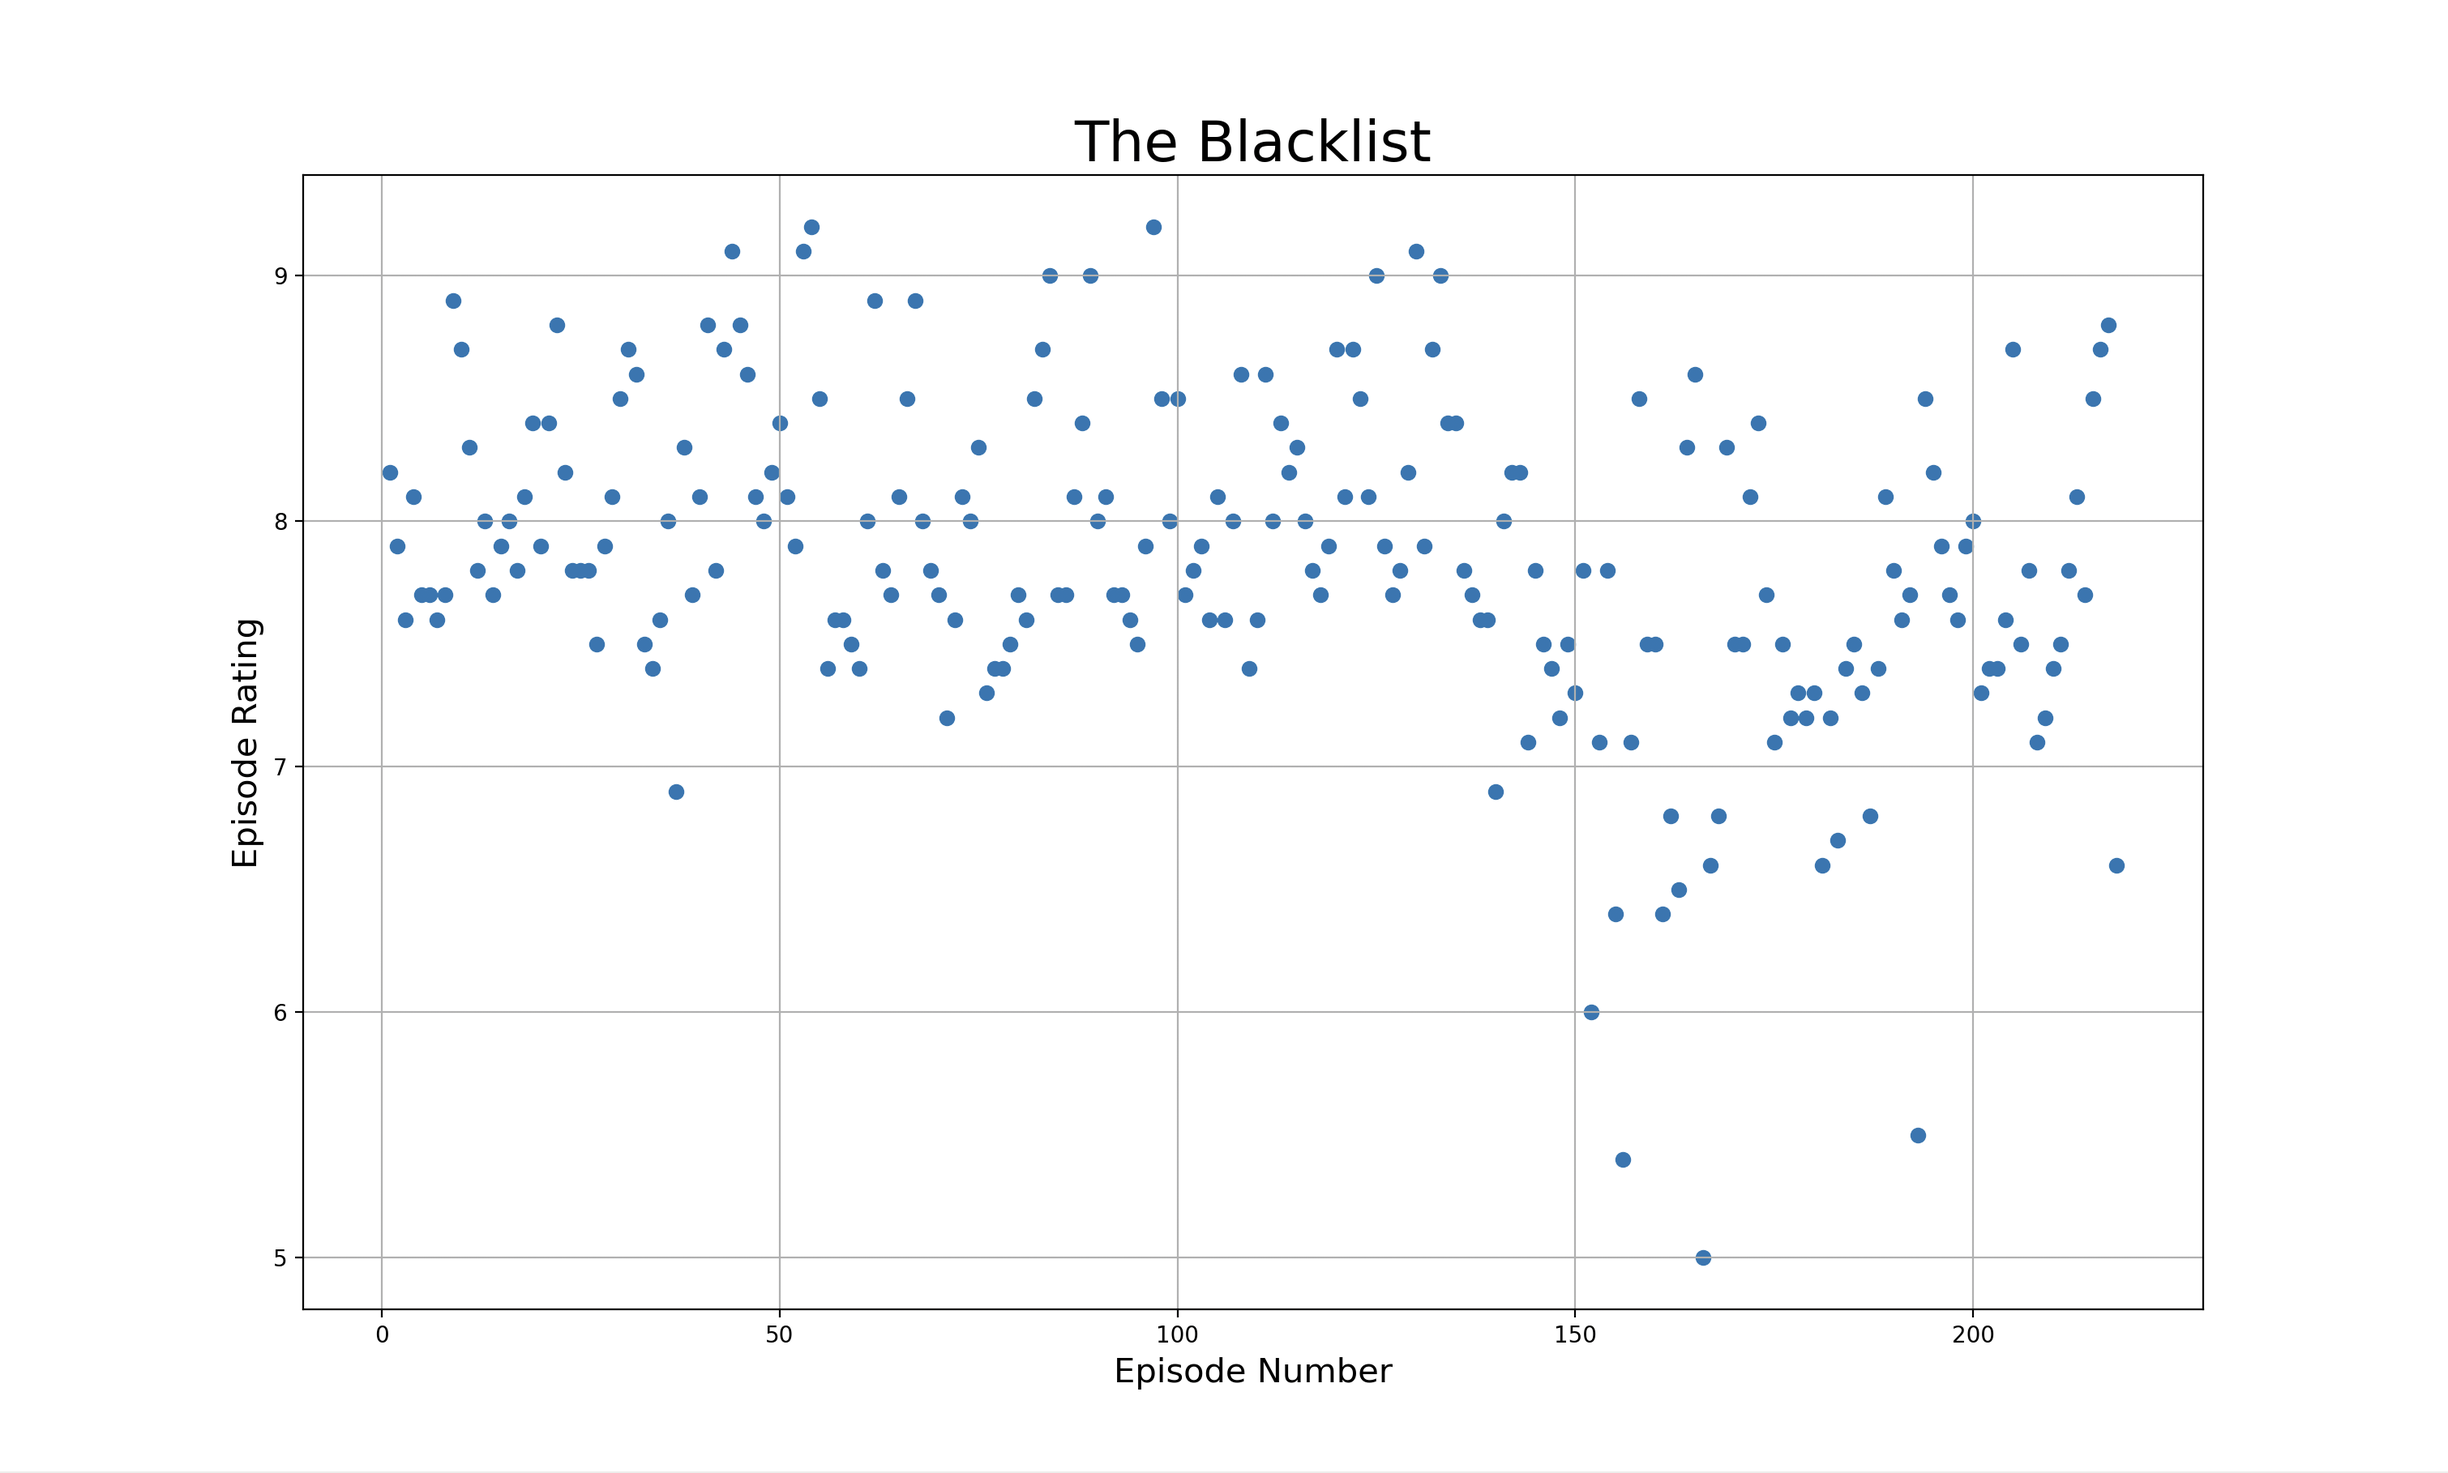
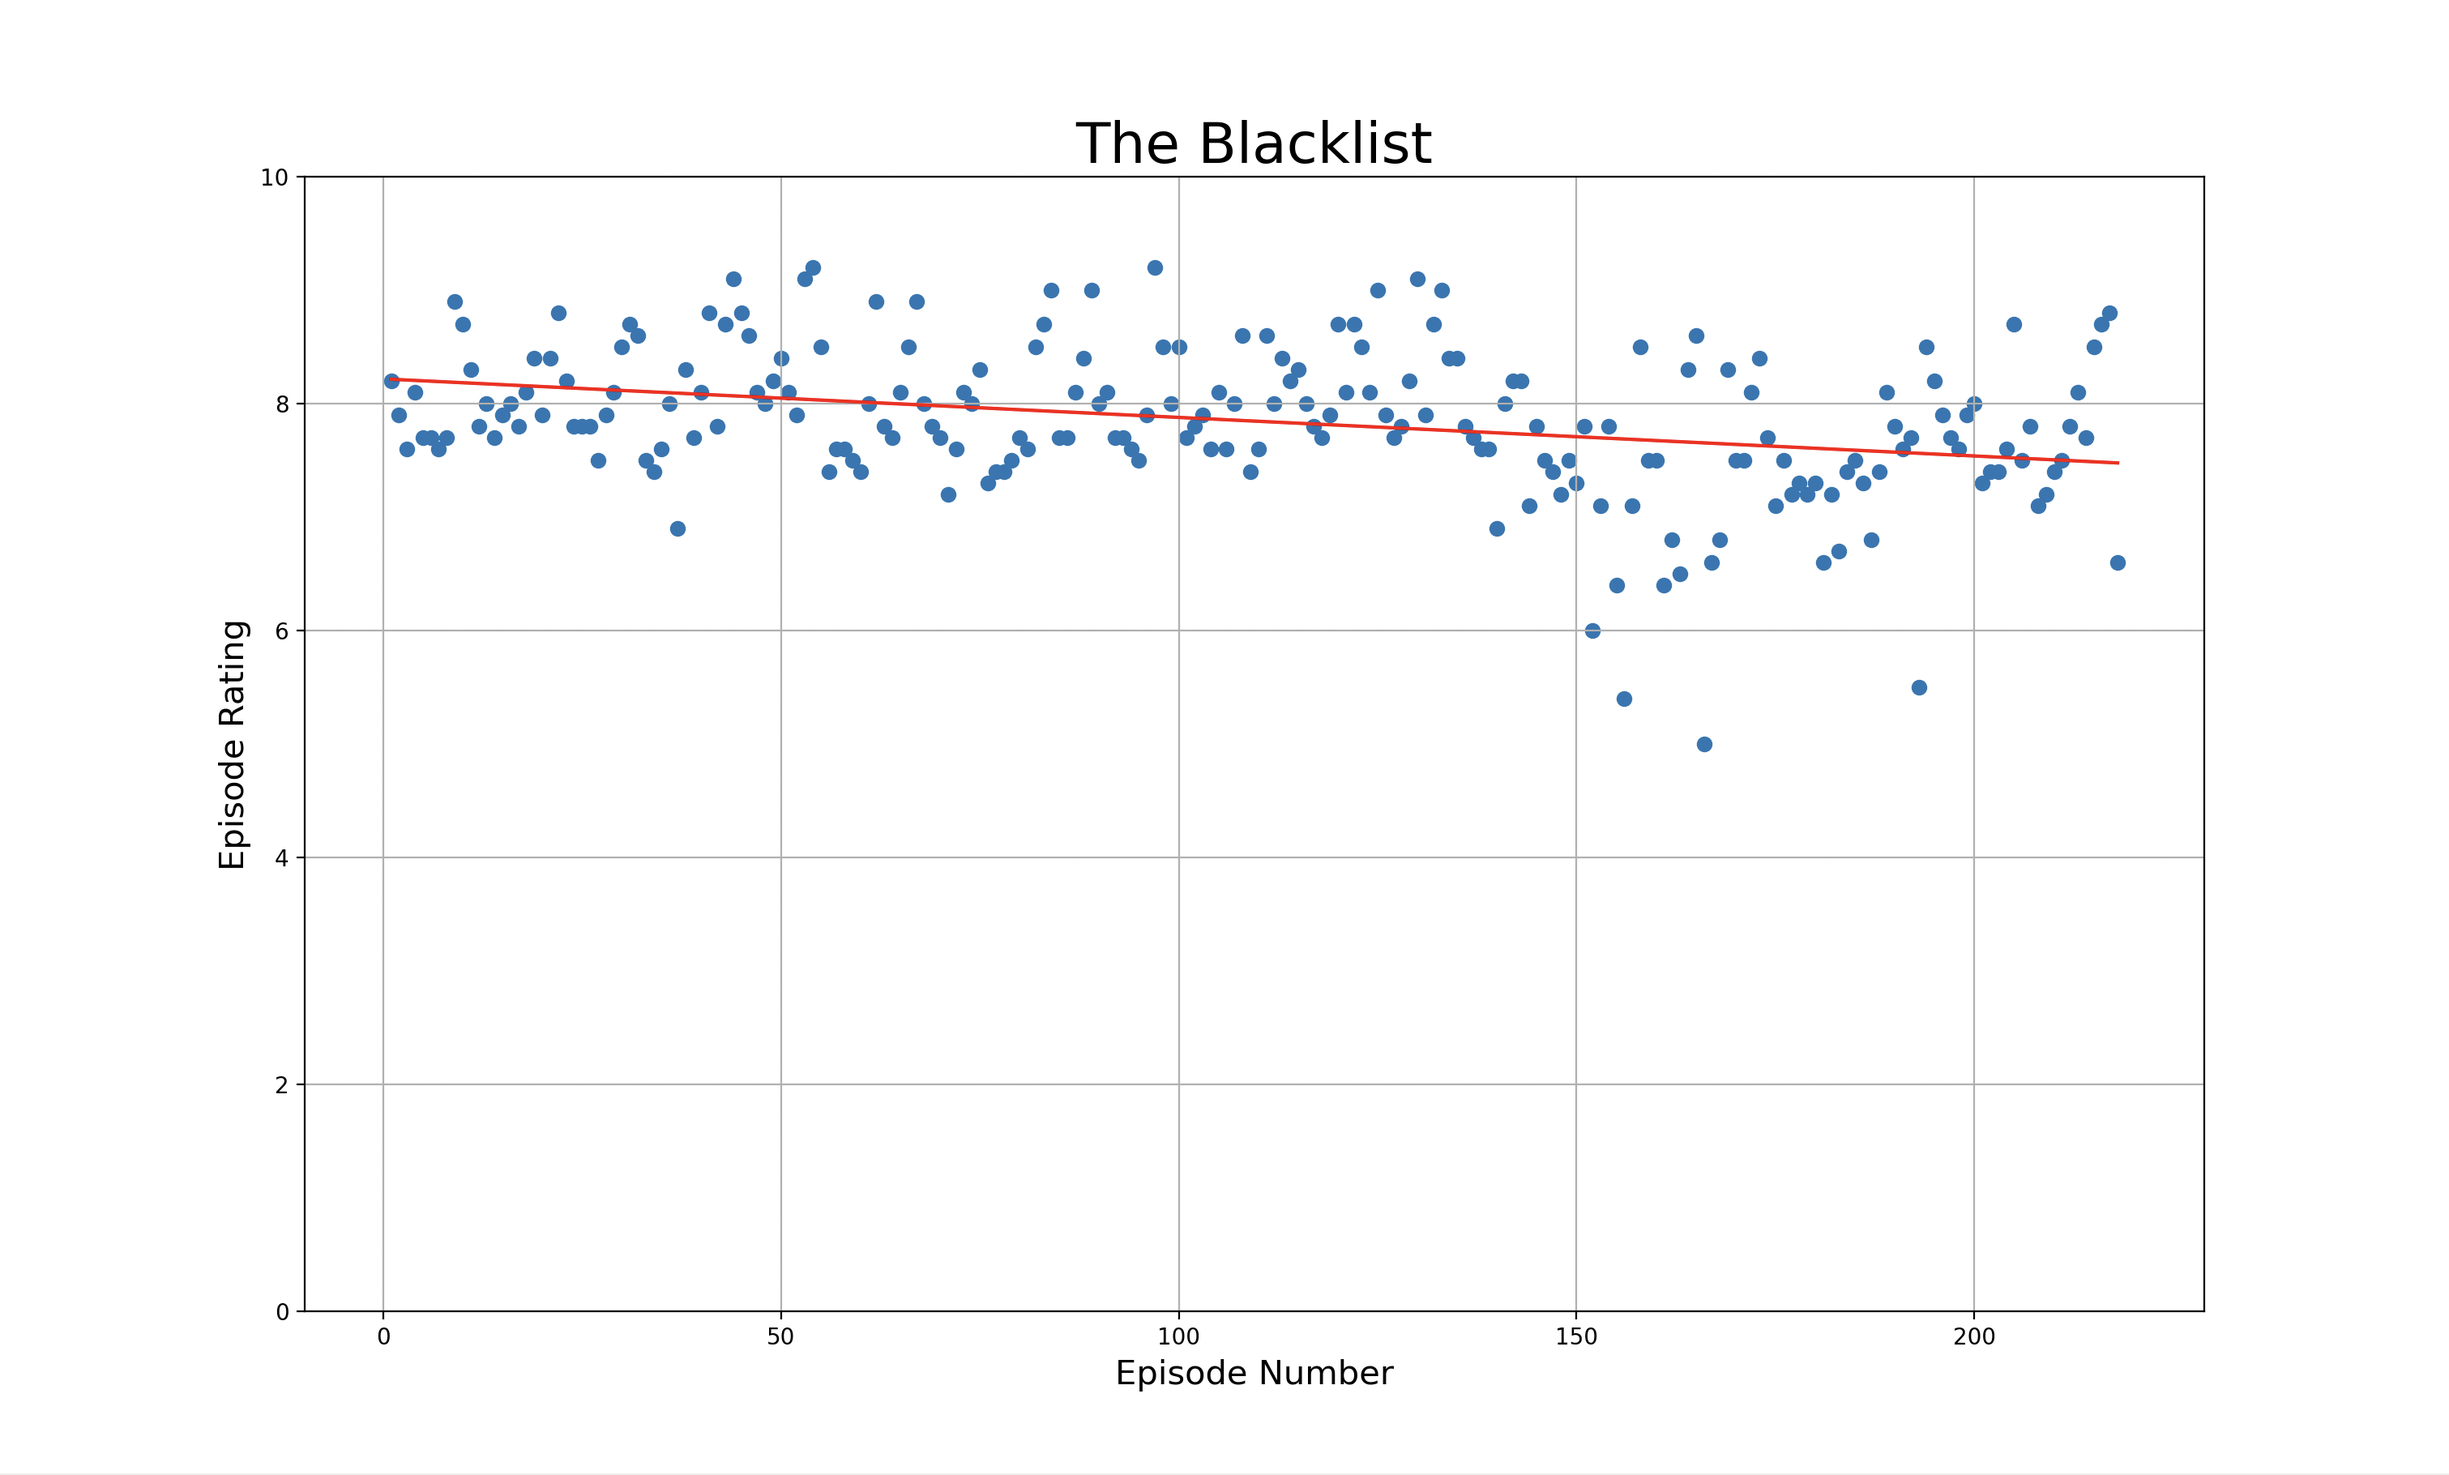
adding more data

diff --git a/_posts/2024-03-09-the-m-score.md b/_posts/2024-03-09-the-m-score.md
@@ -32,15 +32,15 @@ toc:
   - name: Other Typography?
 ---
 
-A few days ago, I was browsing throw my numerous streaming services looking for a new show to start. `The Blacklist` peaked my interest, as I had seen pop up before and never really gave it a shot. But 10 seasons, now that's a commitment. Not wanting to jump into it right away, I went to see what Reddit had to say. It seemed the consensus was that the show started out well, but just was not worth finishing, as the writing declined in quality. Others suggested that `Person of Interest` would be a better watch.
+A few days ago, I was browsing through my numerous streaming services looking for a new show to start. `The Blacklist` peaked my interest, as I had seen it pop up before and never really gave it a shot. But 10 seasons, now that's a commitment. Not wanting to jump into it right away, I went to see what Reddit had to say. It seemed the consensus was that the show started out well, but due to the decline in writing quality was not worth finishing. Others suggested that `Person of Interest` would be a better watch.
 
 An idea began forming in my mind: What if I could use individual episode ratings to get a better picture of how a show performs over time? IMDB had just the data that I needed, but it turns out they don't like handing out API access for personal use. They did however, send me an email pointing me to their [free data set](https://datasets.imdbws.com/), which allowed me to download the needed data in `tsv` format. How neat. With a simple python conversion to `csv` I was easily able to import the data sets into my local MySQL database using `DBeaver`.
 
 _Using the csv files was actually sufficient as first to get charts going with `Matplotlib`, but sql became much more efficient later when aggregating._
 
-## Plotting the Data
-
 If you are interesting in playing around with this data yourself, you can [follow these steps](https://github.com/romainiac/imdb-linear-regression)
+
+## Plotting the Data
 
 Using the episode ratings, I plotted my first chart.
 
@@ -67,7 +67,7 @@ $$
 Here, $$\beta$$ is the slope of the fitted line. From this point on, lets refer to it as the `M score`
 
 Lets imagine there is a TV show that only aired 2 episodes. The first episode got a rating of 0/10 and the second episode got a rating of 10/10.
-This would give us an `M score` of 10. Similarly, if the ratings were reversed the `M score` would be -10. Thus we have our limits $$-10 \leq M \leq 10$$. A score of $$0$$ would mean that every episode in the show got the same rating. Interesting, the `M score` for most tv shows is very close to $$0$$.
+This would give us an `M score` of 10. Similarly, if the ratings were reversed the `M score` would be -10. Thus, we have our limits $$-10 \leq M \leq 10$$. A score of $$0$$ would mean that every episode in the show got the same rating. Interesting, the `M score` for most tv shows is very close to $$0$$.
 
 Lets take a look at `The Blacklist`. Its `M score` is $$-0.0034$$. So it would seem that the consensus was correct, the show seems to slowly degrade overtime, but not by much.
 
@@ -130,6 +130,27 @@ Our new winners become `King the Land` with a high `M Score` of `0.3560294117647
 | Title | Year |   M Score   | Episode Count | IMDB Rating |
 | :---: | :--: | :---------: | :-----------: | :---------: |
 | NCIS  | 2003 | -0.00000549 |      461      |     7.8     |
+
+
+Here are some more graphs to look at. 
+
+{% include figure.liquid loading="eager" path="assets/img/graphs/house-of-cards-regression.png" class="img-fluid rounded z-depth-1" %}
+
+That last season really did not do well.
+
+{% include figure.liquid loading="eager" path="assets/img/graphs/the-witcher-regression.png" class="img-fluid rounded z-depth-1" %}
+
+I really wanted this to be good. I loved the first season.
+
+{% include figure.liquid loading="eager" path="assets/img/graphs/the-wire-regression.png" class="img-fluid rounded z-depth-1" %}
+
+Have not seen this yet, but seems like I should.
+
+{% include figure.liquid loading="eager" path="assets/img/graphs/breaking-bad-regression.png" class="img-fluid rounded z-depth-1" %}
+
+{% include figure.liquid loading="eager" path="assets/img/graphs/better-call-saul-regression.png" class="img-fluid rounded z-depth-1" %}
+
+Can confirm. I loved these shows.
 
 ## Conclusion
 
